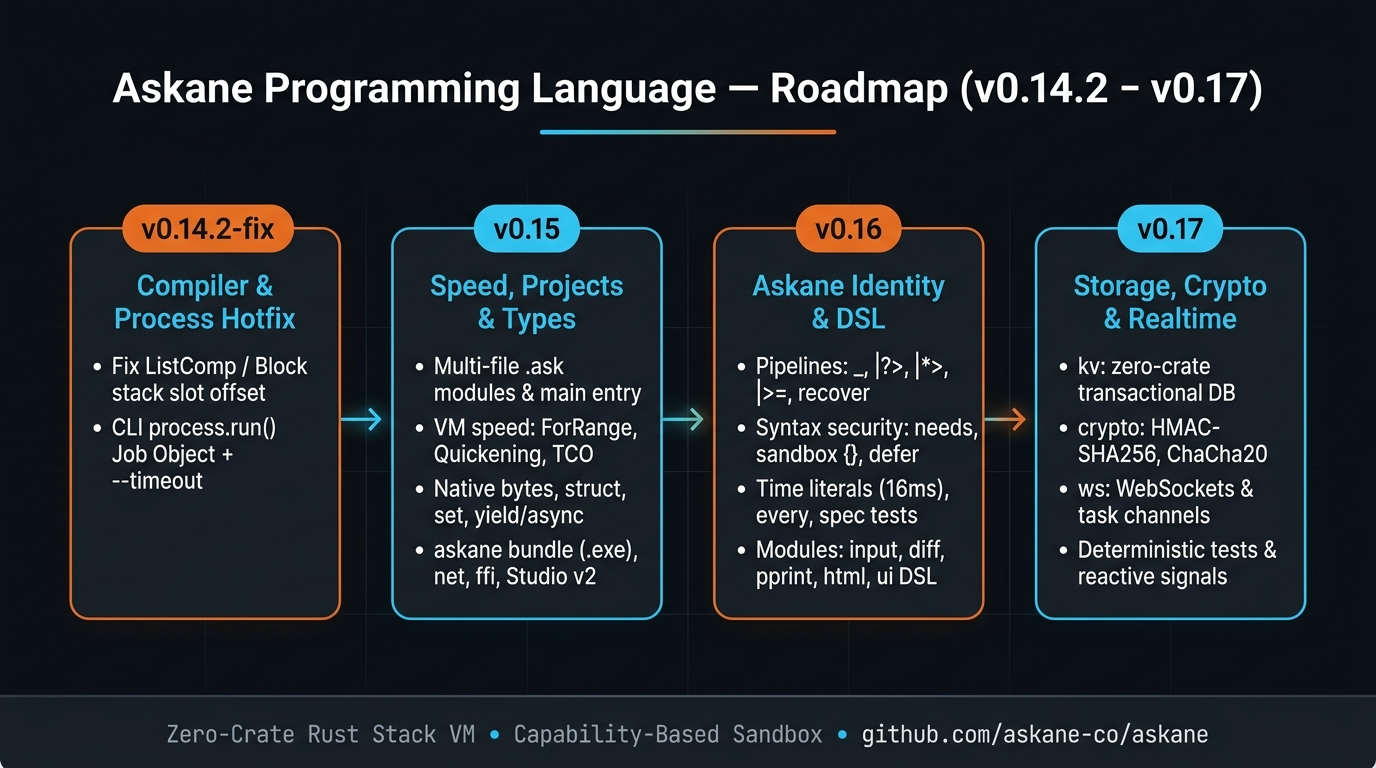
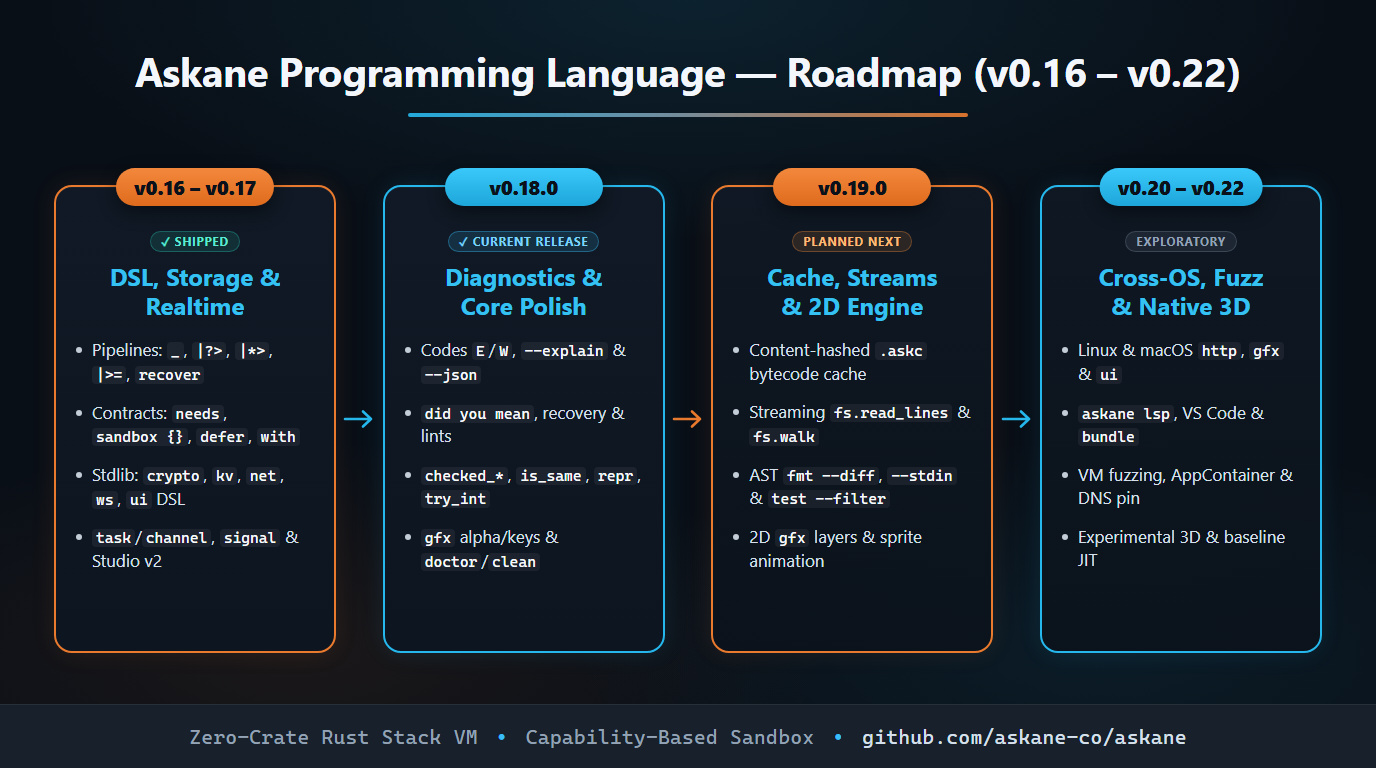
docs: update roadmap diagram and ROADMAP.md for v0.16-v0.22

diff --git a/ROADMAP.md b/ROADMAP.md
@@ -18,13 +18,14 @@ Release roadmap for Askane, separated into completed milestones, immediate fixes
 | `0.16.0 - 0.16.2` | **Done** | 2D Desktop UI (`ui`), signature pipelines (`|?>`, `|*>`, `recover`), `needs`/`sandbox`, `with`/`defer`, security fixes, embedded icon & `askane setup` |
 | `0.17.0 - 0.17.1` | **Done** | Askane Studio v2 + Setup UI, `crypto`, `kv`, `net`, `ws`, cooperative `task`/`channel`, `--deterministic`, snapshots, reactive `signal` & `on change` |
 | `0.18.0` | **Done** | Diagnostics (`E...`/`W...`, `--explain`, `--diagnostic-format=json`, `did you mean`, recovery, lints), semantics/helpers, `gfx` alpha/`key_pressed`, CLI `info`/`doctor`/`modules`/`clean` |
-| `0.19 - 0.22` | **Exploratory** | Bytecode cache (`.askc`), streaming `fs`, cross-platform `gfx`/`ui`, `askane lsp`, fuzzing, experimental 3D (`0.22`) |
+| `0.19.0` | **Planned** | Bytecode cache (`.askc`), streaming `fs` (`read_lines`/`walk`/`temp_file`/`copy_dir`), `fmt --diff`/`--stdin`, `test --filter`, `gfx` layers & sprite animation |
+| `0.20.0 - 0.22.0` | **Exploratory** | Linux/macOS backends (`http`, `gfx`/`ui`, `clipboard`), `askane lsp` & VS Code, `askane bundle`, fuzzing corpus, AppContainer/DNS pinning, experimental 3D & baseline JIT |
 
 ---
 
 ## Zero-Crate Philosophy and Trade-offs
 
-Askane targets a single compact binary (~1.6 MB) without pulling dozens of third-party crates into `Cargo.lock`. In practice, this follows two rules:
+Askane targets a compact single-binary runtime (~4 MB on Windows) without pulling dozens of third-party crates into `Cargo.lock`. In practice, this follows two rules:
 
 1. **Simple parsers and core algorithms are written in-house.** The lexer, parser, compiler, bytecode VM, JSON, CSV, INI, URL, BMP decoder, CRC32/SHA-256, and a bounded linear-time `regex` subset live in the codebase with strict input-size limits.
 2. **OS cryptography, process isolation, and UI are delegated to the platform.** CSPRNG (`BCryptGenRandom`), dialogs/windows, audio (`winmm.dll`), clipboard, and Job Objects use native Windows system libraries instead of reimplementing OS primitives from scratch. Where cross-platform portability or complex standards are needed (TLS/HTTPS, compression, embedded DB engines), the trade-off between system APIs, a minimal audited crate, or a bounded built-in subset is evaluated per feature.
@@ -84,18 +85,50 @@ This release focuses on strengthening the existing foundation before adding heav
 
 ---
 
+### `0.16.0 - 0.16.2` - Pipelines, Contracts, Declarative UI & Setup [Done]
+- **Signature syntax & error recovery:** pipeline placeholder `_`, short-circuit `|?>`, element-wise `|*>`, in-place `|>=`, inline `recover`, typed templates (`sql"..."`, `log"..."`), and `${x=}` debug interpolation.
+- **Security contracts & RAII:** `needs` capability declarations, `sandbox { ... }` privilege attenuation, `with` resource scoping, `defer { ... }` cleanup unwinds, time literals (`16ms`, `2s`), and `every` / `after` reactive blocks.
+- **Desktop `ui`, stdlib & Windows setup (`0.16.1 - 0.16.2`):** declarative `ui` module (`window`, `column`, `row`, `label`, `button`, `text_input`, `checkbox`, `slider`, `select`, themes), PNG sprite loading in `gfx`, global `input` (`--allow-input`), `diff`, `pprint`, `html`, `xml`, `toml`, `binary`, `collections`, `compress`, `archive`, embedded app icon, and `askane setup`.
+
+### `0.17.0 - 0.17.1` - Storage, Crypto, Networking, Concurrency & Studio v2 [Done]
+- **Crypto, storage & realtime networking:** `crypto` (`hmac_sha256`, `constant_time_eq`, `random_key`, ChaCha20-Poly1305 `seal`/`open`), append-only CRC32 `kv` store with `compact()`, sandboxed TCP/UDP `net`, and RFC 6455 WebSocket `ws` (including Close handshake frames).
+- **Concurrency, reactivity & testing:** cooperative `task` (`spawn`, `yield_now`, `sleep`, `join`, `select`, `timeout`) and bounded `channel`, reactive `signal` + `on change`, `spec "..." { ... }` test blocks, `--deterministic` simulation, `assert_snapshot`, and `TailCall` / upvalue / `try` fixes across scheduler switches.
+- **Askane Studio v2 & setup UI:** dark Win32 IDE with project explorer, tabs, line numbers, find/replace (`Ctrl+F`/`Ctrl+H`), permission toggles, Setup UI dialog, interactive stdin, Job Object isolation, and REPL `:modules` (49 built-in modules).
+
 ### `0.18.0` - Diagnostics, Semantics & Developer Experience [Done]
-- **Language semantics, types & stdlib (`value.rs`, `vm.rs`, `strings.rs`, `collections.rs`):** checked/wrapping integer arithmetic (`checked_add`/`sub`/`mul`, `wrapping_add`/`sub`/`mul`), `is_same`, `repr`, `try_int`/`try_float`, type predicates (`is_unit`..`is_fn`), deterministic dict `Display` key ordering, collection helpers (`first`, `last`, `is_empty`, `find_index`, `count`, `partition`, `flat_map`, `take_while`, `drop_while`, `zip_longest`, `min_by`, `max_by`), and `strings` extensions (`byte_len`, `eq_ignore_case`, `contains_ignore_case`, `strip_prefix`/`strip_suffix`, `split_once`/`rsplit_once`, `truncate_utf8`).
-- **`gfx` 2D helpers (`gfx.rs`):** `rect_alpha`, `circle_alpha`, `width()`, `height()`, and per-frame `key_pressed()` tracking across `present()`.
-- **Diagnostics & static analysis (`diag.rs`, `parser.rs`, `vm.rs`):** structured error/warning codes (`E0101`..`E0405`, `W0101`, `W0102`), Levenshtein `did you mean` hints, import chains, ANSI/NO_COLOR output, `--explain`, `--diagnostic-format=json`, multi-error parse recovery, and unused-local / duplicate-`match` warnings.
-- **CLI tooling (`main.rs`, `modules/mod.rs`):** `askane info`, `askane doctor`, `askane modules [--json]`, `askane clean [--dry-run] [--snapshots]`, `askane init [--name]`, `--` script argument forwarding to `sys.args()`/`os.args()`, and dynamic/`sandbox` notices in `askane permissions`.
+- **Diagnostics, recovery & lints (`diag.rs`, `ast.rs`, `parser.rs`, `compiler.rs`, `vm.rs`):** structured codes (`E0101`..`E0405`, `W0101`, `W0102`), Levenshtein `did you mean` hints, exact imported file/line + `(imported from '...')` chains, accurate instruction IP / stack traces (`execute_fast_inner`), ANSI/NO_COLOR output, `--explain`, unified JSON for `askane check --diagnostic-format=json` (files, directories, read errors), multi-error parse recovery without depth leaks, unused-local (`W0101`) with identifier spans, and duplicate-`match` (`W0102`, including floats & ranges) warnings.
+- **Language semantics, types & stdlib (`value.rs`, `vm.rs`, `strings.rs`, `collections.rs`):** checked/wrapping integer arithmetic (`checked_add`/`sub`/`mul`, `wrapping_add`/`sub`/`mul`), `is_same` (refs, `BoundMethod`, `NaN`), `repr`, `try_int`/`try_float`, type predicates (`is_unit`..`is_fn`), exact `cmp_int_float` above `2^53`, deterministic dict `Display` key ordering, collection helpers (`first`, `last`, `is_empty`, `find_index`, `count`, `partition`, `flat_map`, `take_while`, `drop_while`, `zip_longest`, `min_by`, `max_by`), and `strings` extensions (`byte_len`, `eq_ignore_case`/`contains_ignore_case` with `ß`/`ẞ` folding, `strip_prefix`/`strip_suffix`, `split_once`/`rsplit_once`, `truncate_utf8`).
+- **`gfx` 2D helpers (`gfx.rs`):** `rect_alpha`, `circle_alpha`, `width()`, `height()`, and per-frame `key_pressed()`, with active-window guards and `#[cfg(not(windows))]` CI compatibility.
+- **CLI tooling (`main.rs`, `modules/mod.rs`, `sys.rs`, `os.rs`):** `askane info`, `askane doctor`, `askane modules [--json]`, `askane clean [--dry-run] [--snapshots]`, `askane init [--name]`, strict flag validation, `--` script argument passthrough to `sys.args()`/`os.args()`, and alias/`from import`/named-call `[dynamic]` + `sandbox` notices in `askane permissions`.
 
 ---
 
-## Long-Term Ideas (`0.19 - 0.22`, `Exploratory`)
+## Next Milestone: `0.19.0` (`Planned`)
+
+1. **Bytecode cache (`.askc`)**:
+   - content-hashed and schema-versioned `.askc` module cache under project/temp boundaries with mandatory `verify_proto` validation on load;
+   - seamless invalidation when source files or compiler version change, controllable via `askane clean`.
+2. **Streaming & directory filesystem helpers (`fs`)**:
+   - size- and line-bounded `fs.read_lines`, streaming text/byte writers, and `fs.temp_file` with safe automatic cleanup;
+   - `fs.walk` (explicit symlink policy, depth/entry limits), `fs.copy_dir`, and explicit `fs.remove_dir` separation.
+3. **Formatter, test ergonomics & 2D game helpers**:
+   - `askane fmt --diff` and `askane fmt --stdin` backed by project `[fmt]` settings in `askane.toml` and golden corpus tests;
+   - `askane test --filter <pattern>` for focused test runs;
+   - `gfx` 2D layers, sprite-sheet frame helpers, normalized `delta`, and headless frame-step testing for game loops.
+
+---
+
+## Long-Term Ideas (`0.20 - 0.22`, `Exploratory`)
 
 These items are tracked across future milestones as exploratory directions rather than committed release scope, and promote to `Planned` once prerequisites land:
 
-- **`0.19` - Performance, Bytecode Cache & Streaming I/O:** content-hashed `.askc` bytecode cache with sandbox checks, streaming `fs.read_lines` / `fs.lines` / `fs.write_stream`, and module-scoped `askane test --filter` benchmarks.
-- **`0.20 - 0.21` - Cross-Platform, Ecosystem & Hardening:** portable Linux/macOS backends (`http`, `gfx`/`ui`, `clipboard`), `askane lsp` & VS Code extension, `askane bundle`, continuous performance benchmarks, fuzzing corpus for lexer/parser/bytecode/VM, OS isolation hardening (AppContainer, DNS rebinding protection, handle-based I/O), and `CHANGELOG`/release checksums.
-- **`0.22` - Experimental 3D & Native Acceleration:** basic 3D camera, meshes, materials, and lighting layered on the portable graphics backend once 2D UI and 2D games are stable, plus baseline JIT/AOT research.
+- **`0.20` - Cross-Platform Backends & IDE Integration:**
+  - portable Linux and macOS backends for `http` (TLS), `gfx`/`ui`, and `clipboard` without changing `.ask` user code;
+  - built-in `askane lsp` server over JSON diagnostics, VS Code syntax/extension, shell completions (PowerShell/Bash/Zsh), and single-binary `askane bundle`.
+- **`0.21` - Fuzzing, Hardening & Release Discipline:**
+  - continuous benchmark suite tracking startup, VM throughput, and release binary size regressions;
+  - lexer/parser/compiler/verifier/VM fuzzing corpus guaranteeing zero Rust panics on malformed inputs;
+  - OS isolation hardening (Windows AppContainer / low-integrity worker, `http` DNS rebinding pinning, handle-based directory I/O), `CHANGELOG.md`, and release checksums.
+- **`0.22` - Experimental 3D & Native Acceleration:**
+  - experimental 3D camera, transforms, basic meshes, materials, and lighting layered cleanly over the portable graphics backend;
+  - baseline JIT / AOT exploration for hot numeric kernels while preserving Askane's zero-crate simplicity.
